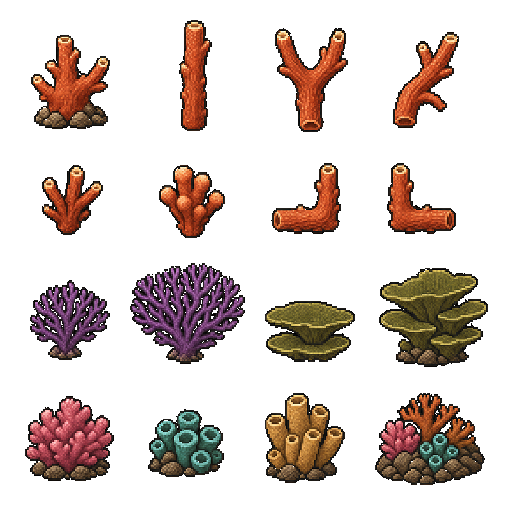
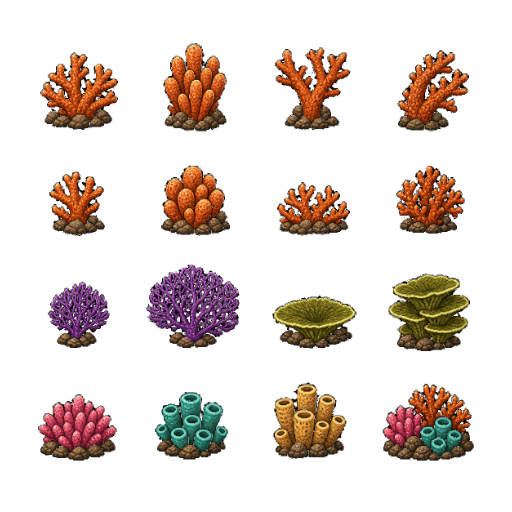
improve corals

diff --git a/src/backdrop.ts b/src/backdrop.ts
@@ -291,38 +291,44 @@ function paintRuins(buf: Buf) {
 // top-left corner of the 128px cell in buffer space.
 export type CoralBlit = { name: string; x: number; y: number };
 
-// Stack one or more named building-block pieces so they visually sit on the
-// sand and touch each other — no gaps, no floating. Uses the per-sprite
-// tight bounding box (top/bottom offsets within the 128px cell) baked into
-// CORAL_ATLAS_LAYOUT by the generator.
-// yShift nudges the whole stack up (negative, further back) or down (positive,
-// foreground / partially buried). Units are design-space pixels × S.
-function stack(cx: number, yShift: number, ...names: string[]): CoralBlit[] {
-  const CELL = CORAL_ATLAS_CELL;
-  const bx = Math.round(cx * S) - CELL / 2;
-  const result: CoralBlit[] = [];
-  let floor = sandTopAt(cx * S) + Math.round(yShift * S);
-  for (const name of names) {
-    const { bottom } = CORAL_ATLAS_LAYOUT[name];
-    const cellY = floor - bottom - 1;
-    result.push({ name, x: bx, y: cellY });
-    const { top } = CORAL_ATLAS_LAYOUT[name];
-    floor = cellY + top;
-  }
-  return result;
+// Place one coral so its main body rests on the sand at design-space x = cx.
+// yShift (design px) nudges it down into the sand (positive = closer/foreground,
+// foot buried a touch) or up (negative = further back, just kissing the sand).
+// Uses the tight bottom offset baked into CORAL_ATLAS_LAYOUT — which now tracks
+// the coral's real base, ignoring stray atlas-edge pixels — so nothing floats.
+function place(cx: number, yShift: number, name: string): CoralBlit {
+  const { bottom } = CORAL_ATLAS_LAYOUT[name];
+  const bx = Math.round(cx * S) - CORAL_ATLAS_CELL / 2;
+  const floor = sandTopAt(cx * S) + Math.round(yShift * S);
+  return { name, x: bx, y: floor - bottom - 1 };
 }
 
+// A varied scatter of standalone corals across the floor. Rather than a single
+// row hugging the crest, the corals are spread through the sand's full depth in
+// three tiers — a back row kissing the crest, a mid row, and a foreground row
+// sunk well into the bed — so the tall sand band reads as a populated seabed
+// with depth. yShift (design px below the crest) sets each coral's tier; bigger
+// = lower/nearer. Listed back-to-front so foreground corals overlap on top. The
+// cx values keep clear of the ruin columns (design x ~248 / ~392).
 export function coralBlits(): CoralBlit[] {
   return [
-    // Small items — 0 = flush with sand, larger = closer/more buried
-    ...stack(50,  10, "plate_coral_stacked_cluster"),  // close, half-buried
-    ...stack(150,  0, "sea_fan_small_purple"),          // background, sits on sand line
-    ...stack(200,  6, "mixed_rock_coral_base"),
-    ...stack(300,  0, "plate_coral_shelf_green"),
-    ...stack(360, 12, "low_pink_coral_mound"),          // closest, most buried
-    ...stack(490,  0, "blue_green_polyp_cluster"),
-    ...stack(540,  8, "tan_sponge_tube_cluster"),
-    ...stack(620,  0, "sea_fan_large_purple"),
+    // back tier — kissing the crest
+    place(150,  0, "sea_fan_small_purple"),
+    place(300,  2, "orange_open_antler"),
+    place(440,  0, "plate_coral_shelf_green"),
+    place(620,  0, "sea_fan_large_purple"),
+    // mid tier — sunk a little into the bed
+    place(40,  16, "plate_coral_stacked_cluster"),
+    place(110, 14, "orange_dense_antler"),
+    place(350, 18, "orange_low_branch"),
+    place(495, 14, "orange_finger_cluster"),
+    place(545, 16, "tan_sponge_tube_cluster"),
+    // foreground tier — settled deep in the sand, nearest the viewer
+    place(85,  36, "orange_staghorn_bushy"),
+    place(200, 40, "mixed_rock_coral_base"),
+    place(325, 34, "low_pink_coral_mound"),
+    place(470, 42, "blue_green_polyp_cluster"),
+    place(590, 32, "orange_knob_cluster"),
   ];
 }
 
@@ -395,8 +401,11 @@ function blitCoralAtlas(ctx: CanvasRenderingContext2D): Promise<void> {
       ctx.imageSmoothingEnabled = false;
       const CELL = CORAL_ATLAS_CELL;
       for (const { name, x, y } of coralBlits()) {
-        const { col, row } = CORAL_ATLAS_LAYOUT[name];
-        ctx.drawImage(img, col * CELL, row * CELL, CELL, CELL, x, y, CELL, CELL);
+        const { col, row, top, bottom } = CORAL_ATLAS_LAYOUT[name];
+        // Blit only the coral's main-body rows; clipping to [top, bottom] drops
+        // disconnected atlas-edge specks that would otherwise float in the water.
+        const sh = bottom - top + 1;
+        ctx.drawImage(img, col * CELL, row * CELL + top, CELL, sh, x, y + top, CELL, sh);
       }
       resolve();
     };

diff --git a/tools/gen-coral-atlas.ts b/tools/gen-coral-atlas.ts
@@ -17,22 +17,41 @@ const cell: number = json.tileSize;
 const cols: number = json.columns;
 const rows: number = json.rows;
 
-// Compute the tight vertical extent (from cell top) for each sprite so
-// coralBlits() can stack pieces so they visually touch rather than spacing
-// by full cell height.
+// Compute the tight vertical extent (top/bottom opaque row) of each sprite's
+// main body so coralBlits() can rest the coral's real base on the sand.
+// Opaque rows are grouped into vertical bands separated by transparent gaps and
+// the heaviest band wins, so stray pixels stranded against a cell edge (atlas
+// bleed) can't inflate the box and float the coral off the sand.
+const ALPHA_MIN = 4;
+const GAP_BREAK = 8;
 function contentRows(row: number, col: number): { top: number; bottom: number } {
   const x0 = col * cell;
   const y0 = row * cell;
-  let minY = cell, maxY = -1;
+  const count: number[] = [];
   for (let y = 0; y < cell; y++) {
+    let c = 0;
     for (let x = 0; x < cell; x++) {
-      if (rgba[((y0 + y) * w + (x0 + x)) * 4 + 3] > 0) {
-        if (y < minY) minY = y;
-        if (y > maxY) maxY = y;
-      }
+      if (rgba[((y0 + y) * w + (x0 + x)) * 4 + 3] > ALPHA_MIN) c++;
     }
+    count.push(c);
   }
-  return maxY < 0 ? { top: 0, bottom: cell - 1 } : { top: minY, bottom: maxY };
+  type Band = { top: number; bottom: number; mass: number };
+  const bands: Band[] = [];
+  let last = -GAP_BREAK - 1;
+  for (let y = 0; y < cell; y++) {
+    if (count[y] === 0) continue;
+    if (bands.length && y - last <= GAP_BREAK) {
+      const b = bands[bands.length - 1];
+      b.bottom = y;
+      b.mass += count[y];
+    } else {
+      bands.push({ top: y, bottom: y, mass: count[y] });
+    }
+    last = y;
+  }
+  if (!bands.length) return { top: 0, bottom: cell - 1 };
+  const best = bands.reduce((a, b) => (b.mass > a.mass ? b : a));
+  return { top: best.top, bottom: best.bottom };
 }
 
 const layoutEntries = (json.sprites as { name: string; row: number; col: number }[])
@@ -43,11 +62,12 @@ const layoutEntries = (json.sprites as { name: string; row: number; col: number 
   .join("\n");
 
 const module = `// GENERATED by tools/gen-coral-atlas.ts — do not edit by hand.
-// The coral sprite sheet: a ${cols}x${rows} grid of ${cell}px cells. Rows 0–1 are
-// building-block parts (base, segments, junctions, connectors, endings) designed
-// to be stacked into taller composed corals. Rows 2–3 are standalone small items
-// (sea fans, plate corals, fillers) placed individually on the sand.
-// top/bottom are the y offsets of the first/last non-transparent row within the cell.
+// The coral sprite sheet: a ${cols}x${rows} grid of ${cell}px cells. Every cell is a
+// complete standalone coral resting on its own rocky foot, placed individually on
+// the sand. Rows 0–1 are orange branching/finger corals, row 2 the purple sea fans
+// and green plate corals, row 3 the pink/teal/yellow polyp & sponge clusters.
+// top/bottom are the y offsets of the first/last opaque row of the coral's main
+// body (disconnected atlas-edge specks are ignored so sprites sit flush on sand).
 // Layout derived from art/coral-atlas-128.json.
 export const CORAL_ATLAS = "data:image/png;base64,${b64}";
 export const CORAL_ATLAS_CELL = ${cell};